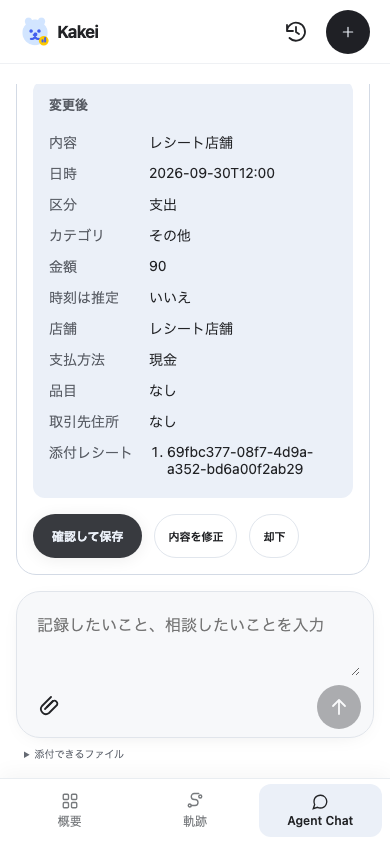
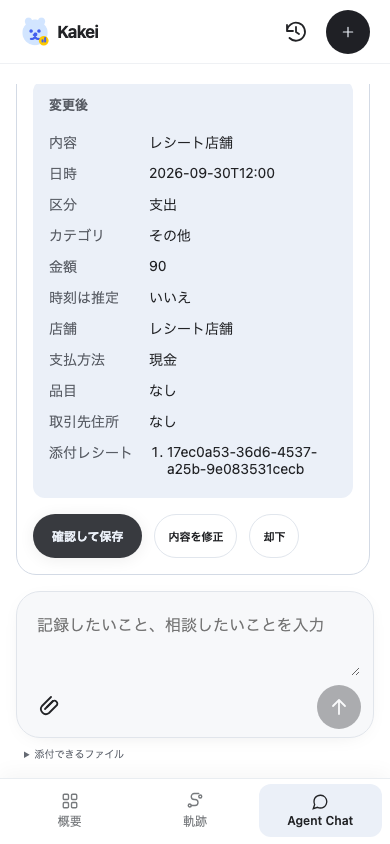
fix: focus added item fields before subsequent input

Changed region(s): [[0.4308, 0.5237, 0.8, 0.5853]]

diff --git a/front/src/TransactionForm.jsx b/front/src/TransactionForm.jsx
@@ -1,4 +1,4 @@
-import React, { useRef, useState } from 'react';
+import React, { useLayoutEffect, useRef, useState } from 'react';
 import MerchantAddressField from './MerchantAddressField.jsx';
 import { Icon } from './AppShell.jsx';
 import { categories } from './lib/dashboard.js';
@@ -15,6 +15,7 @@ export default function TransactionForm({ record = null, busy = false, saveDisab
   const fieldIds = Object.fromEntries(Object.entries(baseFieldIds).map(([key,value])=>[key,prefix+value]));
   const sequence = useRef(initial.items.length);
   const pending = useRef(false);
+  const pendingItemFocus = useRef(null);
   const [type, setType] = useState(record?.type || 'expense');
   const [title, setTitle] = useState(record?.title || '');
   const [manualAmount, setManualAmount] = useState(record ? String(record.amount) : '');
@@ -34,6 +35,11 @@ export default function TransactionForm({ record = null, busy = false, saveDisab
   const allowedCategories = type === 'income' ? ['収入'] : categories.map(item=>item.name);
   const amount = itemized ? validItems && itemTotal <= maxAmount ? String(itemTotal) : '' : manualAmount;
 
+  useLayoutEffect(()=>{
+    const key=pendingItemFocus.current;
+    if(key!==null){pendingItemFocus.current=null;form.current?.querySelector(`[data-item-key="${key}"] [data-item-name]`)?.focus();}
+  },[itemRows]);
+
   const showError = (field, message) => {
     setErrors((current) => ({ ...current, [field]: message }));
     let selector = `#${fieldIds[field]}`;
@@ -48,8 +54,8 @@ export default function TransactionForm({ record = null, busy = false, saveDisab
   const addItem = () => {
     sequence.current += 1;
     const key = sequence.current;
+    pendingItemFocus.current=key;
     setItemRows((current) => [...current, { key, name: '', amount: '' }]);
-    requestAnimationFrame(() => form.current?.querySelector(`[data-item-key="${key}"] [data-item-name]`)?.focus());
   };
   const updateItem = (key, field, value) => {
     setItemRows((current) => current.map((row) => row.key === key ? { ...row, [field]: value } : row));

diff --git a/front/src/TransactionDialog.test.jsx b/front/src/TransactionDialog.test.jsx
@@ -54,3 +54,13 @@ it('sends minute-level datetime with a visible label', async () => {
   })));
   expect(onSubmit.mock.calls[0][0]).not.toHaveProperty('timeEstimated');
 });
+
+it('focuses a new item when it mounts so a later frame cannot steal typing focus',()=>{
+ render(<TransactionDialog {...props}/>);
+ fireEvent.click(screen.getByRole('button',{name:'＋ 品目を追加'}));
+ expect(document.activeElement).toBe(screen.getByRole('textbox',{name:'品目1の名前'}));
+ fireEvent.change(screen.getByRole('textbox',{name:'品目1の名前'}),{target:{value:'パン'}});
+ const amount=screen.getByRole('spinbutton',{name:'品目1の金額（円）'});amount.focus();
+ fireEvent.change(amount,{target:{value:'100'}});
+ expect(document.activeElement).toBe(amount);
+});

diff --git a/docs/verification/2026-10-04-transaction-edit.md b/docs/verification/2026-10-04-transaction-edit.md
@@ -11,7 +11,7 @@
 
 ## 検証
 
-- Front `npm --prefix front test`: 125件成功。直接編集URL・予約文字ID・更新・品目合計・住所消去・入力保持・キャンセル・再取得失敗・既存レシートリンクを確認。
+- Front `npm --prefix front test`: 126件成功。直接編集URL・予約文字ID・更新・品目合計・住所消去・入力保持・キャンセル・再取得失敗・既存レシートリンクを確認。
 - `npm --prefix front run build`: 成功（既存バンドルサイズ警告あり）。
 - ブラウザ21件成功。一時DBのFastAPIを使用。保存・再読込・住所と軌跡・CSV・エラー再試行・全項目変更・品目追加削除・収入切替・PC/phoneを確認。
 - ブラウザ検証中にテストの旧前提による失敗を確認。カテゴリ選択のラベル照合と、textareaの文字表示を保存完了と誤認して再読込していたテストを修正。画面遷移完了を待ってから検証。編集で選択月が10月へ更新されるため、旧テストの「次月を押す」手順も削除。
@@ -29,5 +29,9 @@
 - 背景再取得失敗: stale状態でキャンセルも無効になった。保存不可状態と処理中のロックを分け、入力を維持してキャンセル・戻るを使えるように修正。RED→GREEN。
 - 軽微指摘のPC画像は、既存のサイドバー遷移途中を撮っていたためanimations:disabledで再撮影。サイドバーのコード変更は不要。
 - 取引住所が空欄の場合に軌跡住所を編集値へ自動コピーしない。参照住所を意図せず取引へ保存しないため。
+
+## 追加の回帰修正
+
+最終ブラウザ検証で品目追加後の遅れたrequestAnimationFrameのfocusが金額入力を妨げるケースを確認。追加欄のDOM反映時にuseLayoutEffectでfocusするよう修正。新規品目の即時focusを確認するテストでRED→GREEN。Front126件成功。
 
 main反映は完了後に追記。
